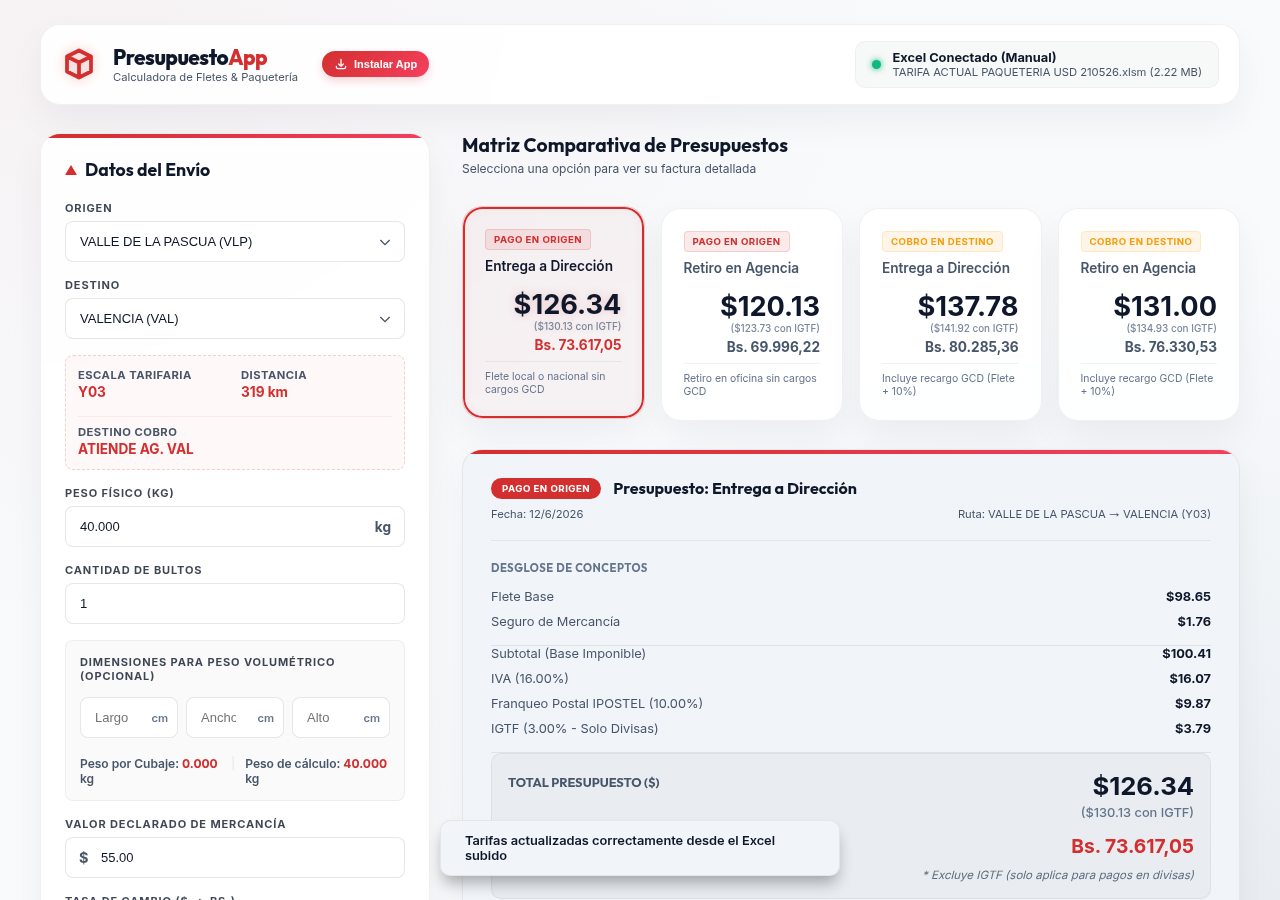
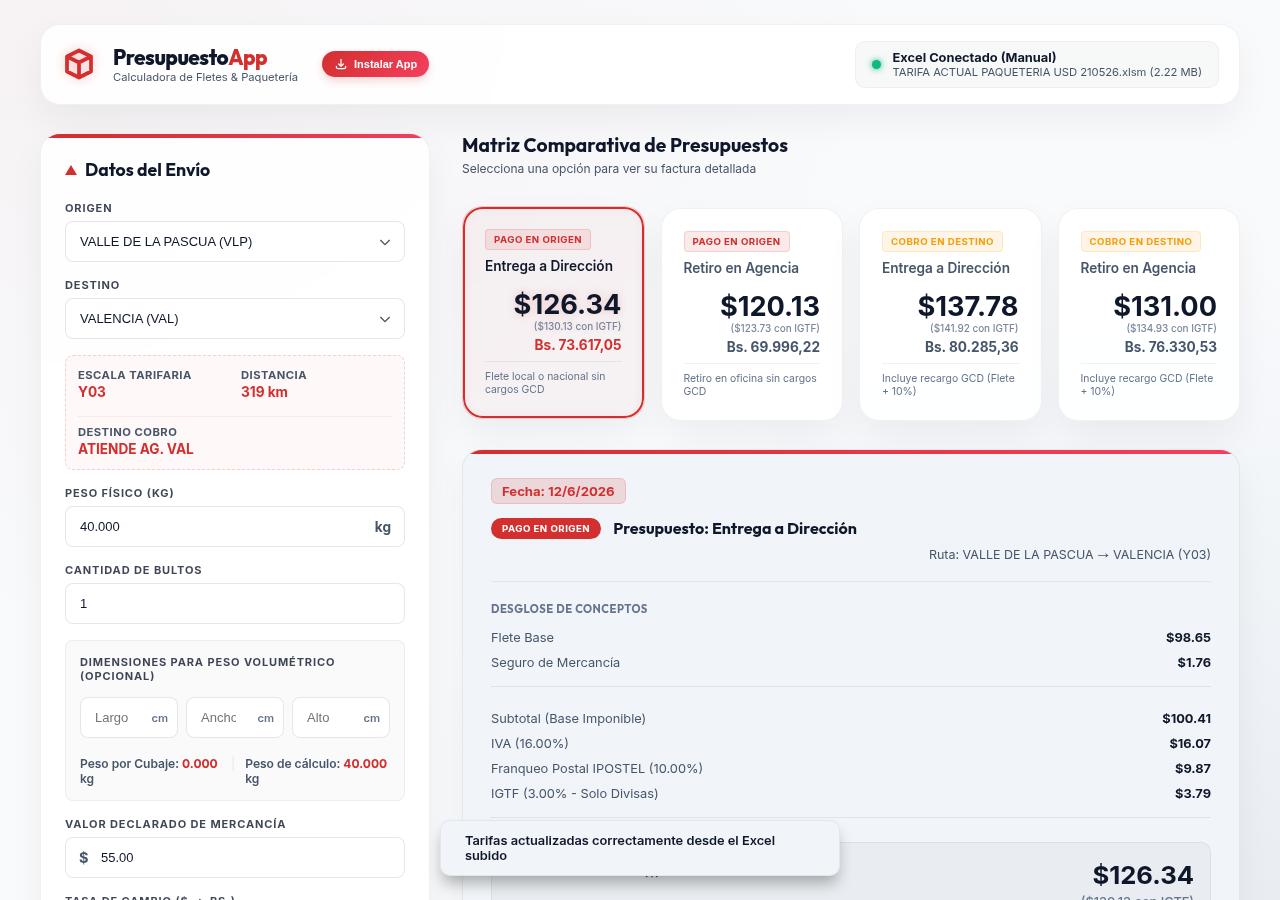
Restaurar ruta a posición original, reposicionar fecha como badge prominente arriba del título e incrementar espaciado en líneas de sección

diff --git a/style.css b/style.css
@@ -1241,16 +1241,27 @@ input:disabled {
 
 .receipt-meta {
     display: flex;
-    flex-direction: column;
-    gap: 4px;
-    font-size: 0.72rem;
+    justify-content: flex-end;
+    font-size: 0.78rem;
     color: var(--text-secondary);
+}
+
+.receipt-date-container {
+    display: flex;
+    justify-content: flex-start;
+    margin-bottom: 6px;
 }
 
 #receiptDate {
     font-weight: 700;
-    font-size: 0.78rem;
-    color: var(--receipt-text);
+    font-size: 0.82rem;
+    color: var(--primary);
+    background: var(--primary-glow);
+    padding: 4px 10px;
+    border-radius: var(--radius-sm);
+    border: 1px solid rgba(211, 47, 47, 0.15);
+    display: inline-flex;
+    align-items: center;
 }
 
 .receipt-section {
@@ -1259,13 +1270,13 @@ input:disabled {
     gap: 10px;
     border-bottom: 1px solid var(--receipt-line);
     padding-bottom: 16px;
-    margin-bottom: 16px;
+    margin-bottom: 24px;
 }
 
 .receipt-section:last-of-type {
     border-bottom: none;
     padding-bottom: 0;
-    margin-bottom: 4px;
+    margin-bottom: 8px;
 }
 
 .receipt-section h4 {
@@ -1510,6 +1521,14 @@ input:disabled {
     
     .receipt-meta, .receipt-item, .receipt-section h4, .receipt-print-note {
         color: #334155 !important;
+    }
+    
+    #receiptDate {
+        background: transparent !important;
+        border: none !important;
+        padding: 0 !important;
+        color: black !important;
+        font-size: 0.82rem !important;
     }
     
     .receipt-line, .receipt-item.flete-neto-row, .bs-row {

diff --git a/index.html b/index.html
@@ -298,12 +298,14 @@
                 <!-- Selected Scenario Invoice Breakdown (Receipt View) -->
                 <div class="receipt-card" id="receipt">
                     <div class="receipt-header">
+                        <div class="receipt-date-container">
+                            <span id="receiptDate">Fecha: 12/06/2026</span>
+                        </div>
                         <div class="receipt-title-area">
                             <span class="receipt-badge" id="receiptBadge">Pago en Origen</span>
                             <h3 id="receiptTitle">Presupuesto: Entrega a Dirección</h3>
                         </div>
                         <div class="receipt-meta">
-                            <span id="receiptDate">Fecha: 12/06/2026</span>
                             <span id="receiptRoute">Ruta: -</span>
                         </div>
                     </div>

diff --git a/sw.js b/sw.js
@@ -1,4 +1,4 @@
-const CACHE_NAME = 'presupuestoapp-v8';
+const CACHE_NAME = 'presupuestoapp-v9';
 const ASSETS = [
     './',
     'index.html',
